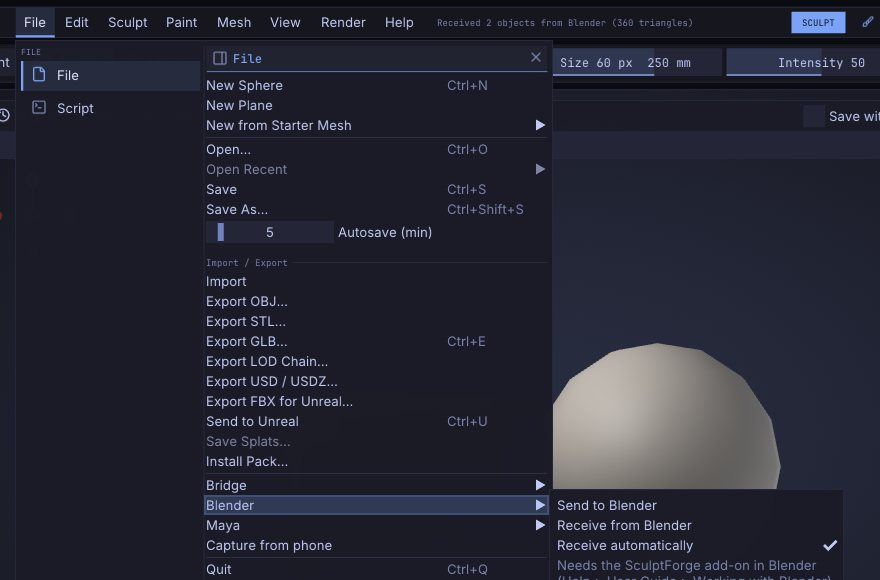
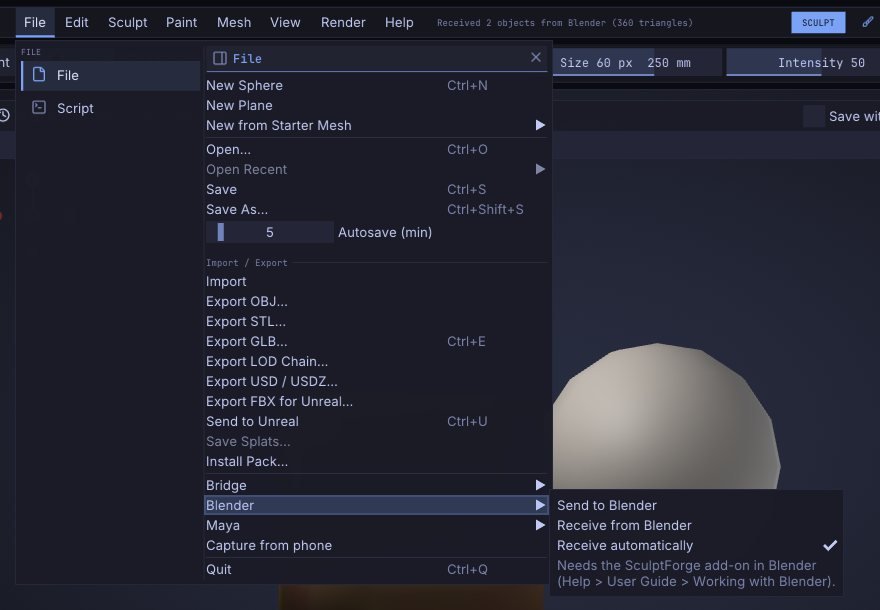
Guide: the Blender menu shot shows the add-on hint line in full

diff --git a/website/guide/blender.html b/website/guide/blender.html
@@ -83,7 +83,7 @@ Blender picks it up by itself within a second (or click <strong>Receive from Scu
 </li>
 </ol>
 <p>Sending again from Blender updates the same Parts: each update is one undo step on that Part in SculptForge, and each receive in Blender is one undo step there.</p>
-<figure class="shot"><a href="images/blender-menu.jpg" class="zoom"><img src="images/blender-menu.jpg" alt="File &gt; Blender in SculptForge" width="880" height="580" loading="lazy" decoding="async"></a><figcaption>File &gt; Blender in SculptForge</figcaption></figure>
+<figure class="shot"><a href="images/blender-menu.jpg" class="zoom"><img src="images/blender-menu.jpg" alt="File &gt; Blender in SculptForge" width="880" height="610" loading="lazy" decoding="async"></a><figcaption>File &gt; Blender in SculptForge</figcaption></figure>
 <h2 id="what-comes-across">What comes across<a class="anchor" href="#what-comes-across" aria-label="Link to this section">#</a></h2>
 <div class="table-wrap"><table><thead><tr><th></th><th>Blender</th><th>SculptForge</th></tr></thead><tbody><tr><td>Shape</td><td>The object&#x27;s mesh, in its own space</td><td>The Part, placed in the scene with the object&#x27;s transform</td></tr><tr><td>Faces</td><td>Triangles and quads; n-gons as triangle fans</td><td>Triangles and quads (Wire shows the quads)</td></tr><tr><td>UVs</td><td>The active UV map</td><td>UVs</td></tr><tr><td>Colour</td><td>The active colour attribute (point or face corner)</td><td>Vertex Paint</td></tr><tr><td>Mask</td><td>The sculpt mask</td><td>Mask</td></tr><tr><td>Face sets</td><td>Sculpt mode face sets</td><td>Face Groups</td></tr><tr><td>Name</td><td>Object name</td><td>Part name</td></tr></tbody></table></div>
 <p>Blender is Z-up and SculptForge Y-up, both in metres; the add-on and SculptForge convert between them, so the model stands the same way in both and a round trip changes nothing. Objects with a negative scale (mirrored) come across the right way out.</p>

diff --git a/tools/guide/make_images.py b/tools/guide/make_images.py
@@ -77,7 +77,7 @@ WN_SIZE = (600, 340)
 FEATURE_CROPS = {
     "bake": ("bake/high-and-baked-low", (0, 0, 1600, 960), MAX_WIDTH),
     "bake-mesh-maps": ("bake/bake-palette", (1280, 280, 1600, 720), 320),
-    "blender-menu": ("blender_bridge/menu", (130, 0, 1010, 580), 880),
+    "blender-menu": ("blender_bridge/menu", (130, 0, 1010, 610), 880),
     "capture-from-view": ("kelvinlet_capture/capture_window", (440, 140, 1200, 640), 760),
     "fill-layer-panel": ("fill_layers/fill-layer-panel", (1280, 60, 1600, 960), 320),
     "gizmo-pose": ("gizmo/posing-mid-drag", (110, 200, 1000, 860), 890),
